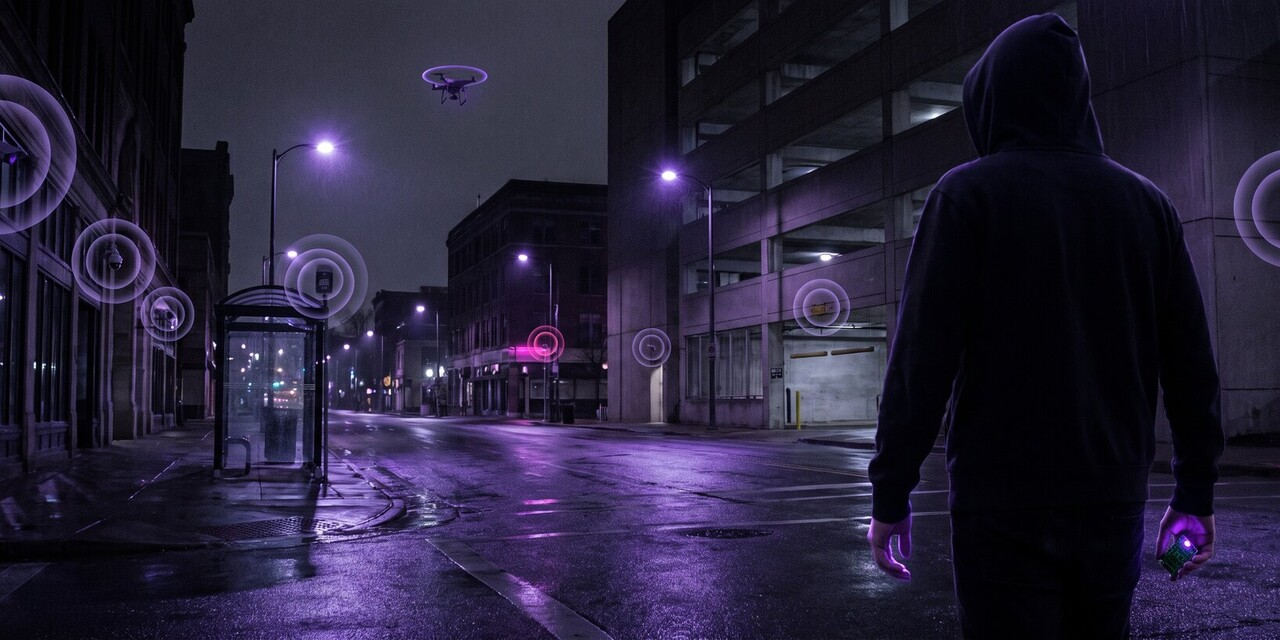
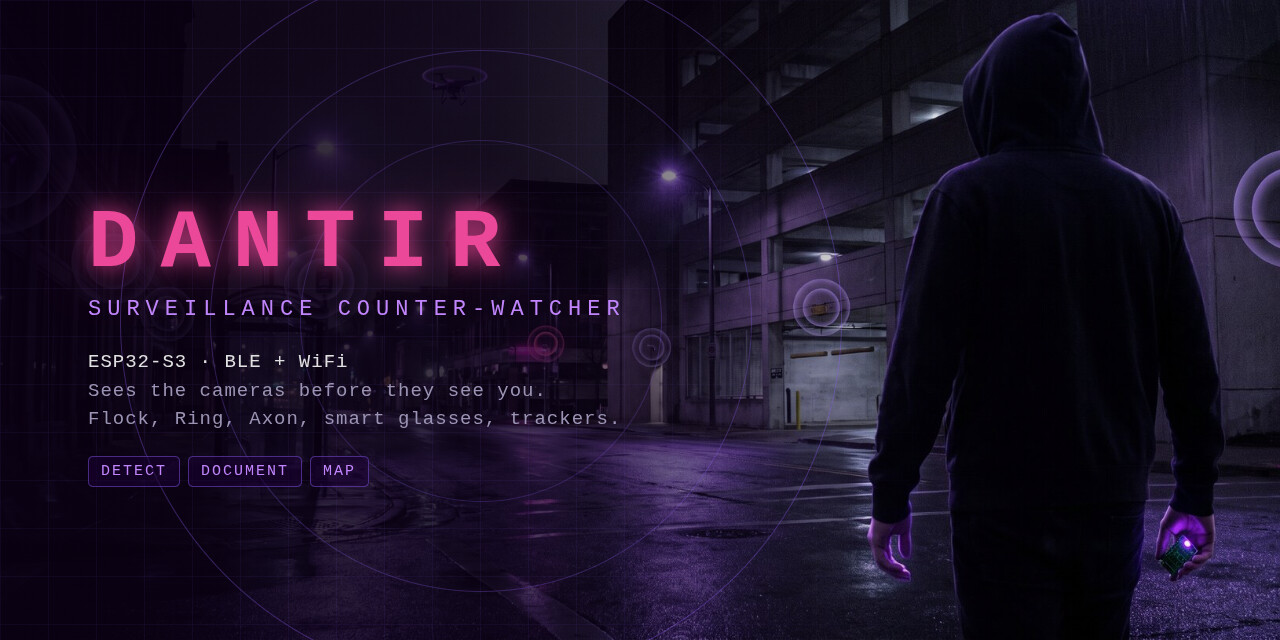
docs: social preview card (wordmark, tagline and rings over the hero) + its HTML source

diff --git a/docs/social-card.html b/docs/social-card.html
@@ -1,0 +1,29 @@
+<!-- Source for docs/social-preview.jpg (GitHub social preview, 1280x640). Open beside hero.jpg at a 1280x640 viewport and screenshot. -->
+<!DOCTYPE html><html><head><meta charset="utf-8"><title>card</title>
+<style>
+  html,body{margin:0;background:#0a0012}
+  .card{position:relative;width:1280px;height:640px;overflow:hidden;font-family:'Courier New',ui-monospace,Menlo,monospace;color:#e0e0e0}
+  .bg{position:absolute;inset:0;background:url(hero.jpg) center/cover no-repeat}
+  .shade{position:absolute;inset:0;background:linear-gradient(90deg,rgba(10,0,18,.92) 0%,rgba(10,0,18,.78) 38%,rgba(10,0,18,.15) 68%,rgba(10,0,18,0) 100%)}
+  .grid{position:absolute;inset:0;opacity:.18;background-image:linear-gradient(rgba(139,92,246,.35) 1px,transparent 1px),linear-gradient(90deg,rgba(139,92,246,.35) 1px,transparent 1px);background-size:48px 48px;mask-image:linear-gradient(90deg,#000 0%,#000 45%,transparent 75%);-webkit-mask-image:linear-gradient(90deg,#000 0%,#000 45%,transparent 75%)}
+  .ring{position:absolute;border-radius:50%;border:1px solid rgba(139,92,246,.35);left:120px;top:-40px;width:720px;height:720px}
+  .ring.r2{left:210px;top:50px;width:540px;height:540px;border-color:rgba(139,92,246,.28)}
+  .ring.r3{left:300px;top:140px;width:360px;height:360px;border-color:rgba(139,92,246,.22)}
+  .text{position:absolute;left:88px;top:196px}
+  h1{margin:0;font-size:84px;letter-spacing:22px;color:#ec4899;text-shadow:0 0 22px rgba(236,72,153,.85),0 0 60px rgba(236,72,153,.35);font-weight:bold}
+  .tag{margin-top:6px;color:#c084fc;font-size:22px;letter-spacing:6px;text-transform:uppercase}
+  .sub{margin-top:26px;color:#9a93b3;font-size:19px;letter-spacing:1px;line-height:1.5}
+  .sub b{color:#e0e0e0;font-weight:normal}
+  .chip{display:inline-block;margin:22px 8px 0 0;padding:6px 12px;border:1px solid rgba(139,92,246,.45);border-radius:5px;color:#c084fc;font-size:15px;letter-spacing:2px;background:rgba(26,0,51,.55)}
+</style></head><body>
+<div class="card">
+  <div class="bg"></div><div class="shade"></div><div class="grid"></div>
+  <div class="ring"></div><div class="ring r2"></div><div class="ring r3"></div>
+  <div class="text">
+    <h1>DANTIR</h1>
+    <div class="tag">Surveillance Counter-Watcher</div>
+    <div class="sub"><b>ESP32-S3 · BLE + WiFi</b><br>Sees the cameras before they see you.<br>Flock, Ring, Axon, smart glasses, trackers.</div>
+    <span class="chip">DETECT</span><span class="chip">DOCUMENT</span><span class="chip">MAP</span>
+  </div>
+</div>
+</body></html>
